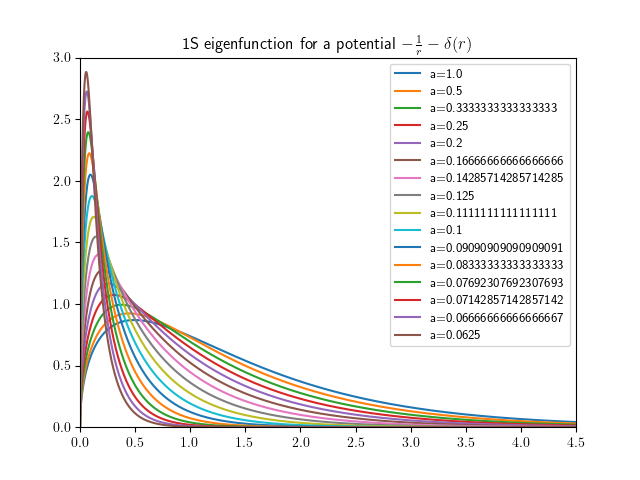
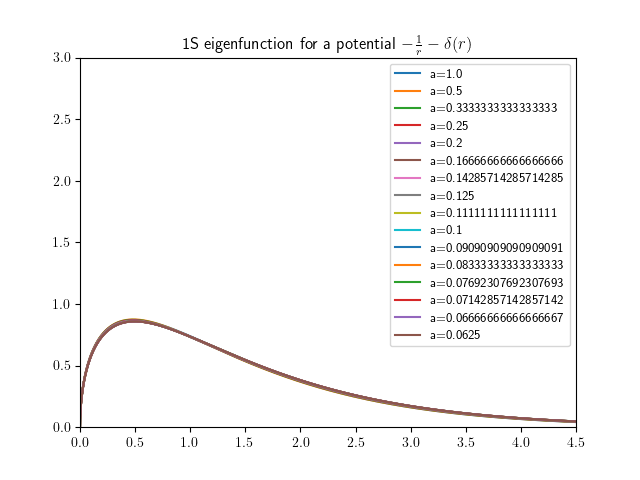
Add existing file

Changed region(s): [[0.125, 0.1562, 0.9062, 0.9062]]

diff --git a/cdelta_with_a.py b/cdelta_with_a.py
@@ -1,82 +1,125 @@
 import Numerov as nu       
 import numpy as np                                           
-from numba import njit
+from tqdm import tqdm
 
 f=open("results/delta_with_a.txt","w")
+f.write("We now find best value for c for a regulated Coulomb+smeared delta potential for different a\n\n")
 
-grid, step = nu.spatial_objects.uniform_grid(-50,6,10**6,retstep=True)
-grid=nu.spatial_objects.logarithmic_grid(grid)
 
 value =-1.2
 radius=2
 #value of c and d to be found
-c_delta=0
-c_eff=0
-d_eff=0
+
+
+a = [1,0.5,0.1]
+
 
 #function to compute the sum of relative errors
-@njit
+
 def error_sum(data,energy):
     error=0
-    for data, energy in data, energy:
-        error+=abs(data-energy)/abs(data)
+    for datas, energies in zip(data, energy):
+        error+=(datas-energies)**2
     return error
 
-#initialite fixed potentials 
 
-coulomb=nu.potentials.Coulomb(grid)
-well=nu.potentials.radial_well(grid,radius,value)
-potential=coulomb+well
+
+
 
 #initialize data array
 
-data = []
-coulomb_energy = []
-dirac_approx_data = []
+data = [-1.568949087013607, -0.19602247419243213, -0.07505287685489748, -0.039067748657544143, -0.023876894192653708, 
+-0.016084664603113197, -0.011565622189664282, -0.008714093928574584, -0.006800400515203364, -0.0054541801364393905]
+
+
 smeared_delta_data = []
-effective_potential_data = []
-
-
-for n in range(1,11):
-    energy=nu.Numerov_algorithm.log_fast_radial_numerov(grid,step,1,n,-2,0,potential,dy=10**-150,accuracy=10**-10)[0] #data generation
-    data.append(abs(energy))
-    energy, eigenfunc=nu.Numerov_algorithm.log_fast_radial_numerov(grid,step,1,n,-2,0,coulomb,dy=10**-150,accuracy=10**-10)[0] #coulomb energy
-    coulomb_energy.append(abs(energy))
 
 
 
-c_max=0
-c_min=-50000
-errors=[]    
-c_values=[]
-for c in range(c_min,c_max):
-    c=c/10000
-    c_values.append(c)
-    for n in range(0,10):
-        dirac_approx_data.append(coulomb_energy[n]+c*1/(np.sqrt(np.pi)*(n+1)**3))
 
-    errors.append(error_sum(data,dirac_approx_data))
-    dirac_approx_data=[]       
-
-
-pos=np.argmin(errors)
-c=c_values[pos]
-f.write(f"Minimixe square error  gives  c= {c}\n")
-
-for n in range(0,10):
-    dirac_approx_data.append(coulomb_energy[n]+c*1/(np.sqrt(np.pi)*(n+1)**3))
-
-f.write(f"Our approximation gives energies {dirac_approx_data}\n\n")
 f.write(f"Data are:{data}\n\n")
-n=10
-c = (data[n-1]+1/(2*n**2))*np.sqrt(np.pi)*n**3
-f.write(f"Fixing c from  level {n}S will give: c= {c}\n")
 
-dirac_approx_data = []
 
-for n in range(0,10):
-    dirac_approx_data.append(coulomb_energy[n]+c*1/(np.sqrt(np.pi)*(n+1)**3))
-f.write(f"Energy eigenvalues in this case are {dirac_approx_data}\n")
+
+
+
+
+
+
+
+for a in a:
+
+    f.write(f"For a={a}\n\n")
+    c_max=round(-30-3/a)*100
+    c_min=round(-70-3/a)*100
+    smeared_delta_data=[]
+
+    
+    errors=[]  
+    difference_low_energy = []  
+    c_values=[]
+
+
+    
+
+    for c in tqdm(range(c_min,c_max)):
+        
+        c=c/100
+        c_values.append(c)
+
+
+
+
+        for n in range(1,11):
+            grid, step = nu.spatial_objects.uniform_grid(0,n*50,10**5,retstep=True)
+            reg_coulomb=nu.potentials.Coulomb_regulated(grid,a)
+            delta=nu.potentials.smeared_dirac_delta(grid,a)
+            potential=reg_coulomb+c*delta*a**2 #writing down the potential with regulated coulomb + smeared delta
+            
+            energy_delta = nu.Numerov_algorithm.fast_radial_numerov(grid,step,1,n,-100,0,potential,accuracy=10**-10,dy=10**-150)[0]
+            smeared_delta_data.append(energy_delta)
+
+        errors.append(error_sum(data,smeared_delta_data)) #compute error for fit
+        difference_low_energy.append((abs(data[9]-smeared_delta_data[9]))) #compute difference for the 10S level
+        smeared_delta_data=[]  
+   
+
+
+    pos=np.argmin(errors)
+    c=c_values[pos]
+   
+    
+
+    for n in range(1,11):
+        grid, step = nu.spatial_objects.uniform_grid(0,n*50,10**5,retstep=True)
+        reg_coulomb=nu.potentials.Coulomb_regulated(grid,a)
+        delta=nu.potentials.smeared_dirac_delta(grid,a)
+        potential=reg_coulomb+c*delta*a**2
+        energy_delta = nu.Numerov_algorithm.fast_radial_numerov(grid,step,1,n,-100,0,potential,accuracy=10**-10,dy=10**-150)[0]
+        smeared_delta_data.append(energy_delta)
+
+    
+    f.write(f"Minimixe square error  gives  c= {c}\n")
+    f.write(f"Our approximation gives energies {smeared_delta_data}\n\n")
+    
+    pos=np.argmin(difference_low_energy)
+    c=c_values[pos]
+    
+
+    smeared_delta_data = []
+
+    for n in range(1,11):
+        grid, step = nu.spatial_objects.uniform_grid(0,n*50,10**5,retstep=True)
+        reg_coulomb=nu.potentials.Coulomb_regulated(grid,a)
+        delta=nu.potentials.smeared_dirac_delta(grid,a)
+        potential=reg_coulomb+c*delta*a**2
+        energy_delta = nu.Numerov_algorithm.fast_radial_numerov(grid,step,1,n,-100,0,potential,accuracy=10**-10,dy=10**-150)[0]
+        smeared_delta_data.append(energy_delta) 
+    
+    n=10
+    
+    f.write(f"Fixing c from  level {n}S will give: c= {c}\n")
+    f.write(f"Energy eigenvalues in this case are {smeared_delta_data}\n\n")
 
 f.close()
     

diff --git a/delta_1storder_fit.py b/delta_1storder_fit.py
@@ -5,15 +5,15 @@ import numpy as np
 
 f=open("results/delta_perturbation.txt","w")
 
-grid, step = nu.spatial_objects.uniform_grid(-50,6,10**6,retstep=True)
-grid=nu.spatial_objects.logarithmic_grid(grid)
+grid, step = nu.spatial_objects.uniform_grid(0,300,10**6,retstep=True)
+
 
 
 value =-1.2
 radius=2
 
 f.write(f"Data are generated with a square well potential with value = {value} and radius = {radius}\n\n")
-#value of c and d to be found
+
 
 
 
@@ -28,24 +28,24 @@ def error_sum(data,energy):
 #initialite fixed potentials 
 
 coulomb=nu.potentials.Coulomb(grid)
-well=nu.potentials.radial_well(grid,radius,value)
-potential=coulomb+well
+
 
 #initialize data array
 
-data = []
+
+data = [-1.568949087013607, -0.19602247419243213, -0.07505287685489748, -0.039067748657544143, -0.023876894192653708, 
+-0.016084664603113197, -0.011565622189664282, -0.008714093928574584, -0.006800400515203364, -0.0054541801364393905]
+
 coulomb_energy = []
 dirac_approx_data = []
 
 
 
 for n in range(1,11):
-    energy=nu.Numerov_algorithm.log_fast_radial_numerov(grid,step,1,n,-2,0,potential,dy=10**-150,accuracy=10**-10)[0] #data generation
-    data.append(energy)
-    energy=nu.Numerov_algorithm.log_fast_radial_numerov(grid,step,1,n,-2,0,coulomb,dy=10**-150,accuracy=10**-10)[0] #coulomb energy
+    energy=nu.Numerov_algorithm.fast_radial_numerov(grid,step,1,n,-5,0,coulomb,dy=10**-150,accuracy=10**-10)[0] #coulomb energy
     coulomb_energy.append(energy)
-
-
+f.write(f"Data are:{data}\n\n")
+print(coulomb_energy)
 c_max=0
 c_min=-50000
 errors=[]    
@@ -68,7 +68,7 @@ for n in range(0,10):
     dirac_approx_data.append(coulomb_energy[n]+c*1/(np.sqrt(np.pi)*(n+1)**3))
 
 f.write(f"Our approximation gives energies {dirac_approx_data}\n\n")
-f.write(f"Data are:{data}\n\n")
+
 n=10
 c = (data[n-1]+1/(2*n**2))*np.sqrt(np.pi)*n**3
 f.write(f"Fixing c from  level {n}S will give: c= {c}\n")

diff --git a/Numerov.py b/Numerov.py
@@ -107,19 +107,19 @@ class potentials: #class containig some known potentials
     
 
     @njit
-    def dirac_delta_smeared(grid,a):
+    def smeared_dirac_delta(grid,a):
         prefactor=1/(a**3*np.sqrt(2*np.pi)**3)
         return prefactor*np.exp(-np.multiply(grid,grid)/(2*a**2)) #this succession for a small a goes to delta
     
     @njit 
-    def laplacian_delta_smeared(grid,a):
+    def laplacian_smeared_delta(grid,a):
         prefactor=1/(a**3*np.sqrt(2*np.pi)**3)
         exp=np.exp(-np.multiply(grid,grid)/(2*a**2))
         return prefactor*(np.multiply(grid,grid)/a**4-3/a**2)*exp
     
     
     def effective_potential(r,a,c,d,alpha=1):
-        return potentials.Coulomb_regulated(r,a,alpha=alpha)+c*potentials.dirac_delta_smeared(r,a)*a**2+d*potentials.laplacian_delta_smeared(r,a)*a**4
+        return potentials.Coulomb_regulated(r,a,alpha=alpha)+c*potentials.smeared_dirac_delta(r,a)*a**2+d*potentials.laplacian_smeared_delta(r,a)*a**4
 
 
 

diff --git a/delta_coulomb.py b/delta_coulomb.py
@@ -1,7 +1,7 @@
 import Numerov as nu
 import matplotlib.pyplot as plt
 plt.rcParams['text.usetex'] = True
-f=open("results/dirac_coulomb_result.txt","a")
+f=open("results/dirac_coulomb_result.txt","w")
 f.write("We use succession of gaussians as delta approximation chossing as potential -1/r-1.0*delta(r)\n")
 
 grid, step = nu.spatial_objects.uniform_grid(-60,3,3*10**6,retstep=True)
@@ -11,8 +11,8 @@ coulomb = nu.potentials.Coulomb(grid)
 for a in range(1,17,1):
     a=1/a
     
-    delta=nu.potentials.dirac_delta_smeared(grid,a)
-    potential=coulomb-delta
+    delta=nu.potentials.smeared_dirac_delta(grid,a)
+    potential=coulomb-delta*a**2
     energy,eigenfunction= nu.Numerov_algorithm.log_fast_radial_numerov(grid,step,1,1,-50,0,potential,l=0)
     f.write(f"With a={a} in the gaussian succession, we obtain for the first energy eigenvalue with a potential coulomb-delta: {energy}\n")
     eigenfunction=nu.normalize(grid,eigenfunction)

diff --git a/dirac_gif.py b/dirac_gif.py
@@ -11,8 +11,8 @@ a=[10./i for i in range(1,100)]
 filenames = []
 numerfig=1
 for a in tqdm(a):
-    dirac=-nu.potentials.dirac_delta_smeared(grid, a)
-    potential=coulomb+dirac
+    dirac=-nu.potentials.smeared_dirac_delta(grid, a)
+    potential=coulomb+dirac*a**2
 
     energy,eigenfunc=nu.Numerov_algorithm.log_fast_radial_numerov(grid,step,1,1,-100,0,potential)
     eigenfunc=nu.normalize(grid,eigenfunc)
@@ -51,7 +51,7 @@ a=[10./i for i in range(1,100)]
 
 numerfig=1000
 for a in tqdm(a):
-    dirac=-nu.potentials.dirac_delta_smeared(grid, a)
+    dirac=-nu.potentials.smeared_dirac_delta(grid, a)*a**2
     potential=coulomb+dirac
 
     energy,eigenfunc=nu.Numerov_algorithm.log_fast_radial_numerov(grid,step,1,1,-100,0,potential)

diff --git a/generate_data.py b/generate_data.py
@@ -1,0 +1,26 @@
+import Numerov as nu       
+import numpy as np   
+
+f=open("results/data.txt","w")
+
+
+
+
+value =-1.2
+radius=2
+data = []
+
+f.write(f"Data are generated with a square well potential with value = {value} and radius = {radius}\n\n")
+
+for n in range(1,11):
+
+    grid, step = nu.spatial_objects.uniform_grid(0,50*n,10**7,retstep=True)
+    coulomb=nu.potentials.Coulomb(grid)
+    well=nu.potentials.radial_well(grid,radius,value)
+    potential=coulomb+well
+    energy=nu.Numerov_algorithm.fast_radial_numerov(grid,step,1,n,-5,0,potential,dy=10**-150,accuracy=10**-10)[0] #data generation
+    data.append(energy)
+
+
+
+f.write(f"Data are:{data}\n\n")
